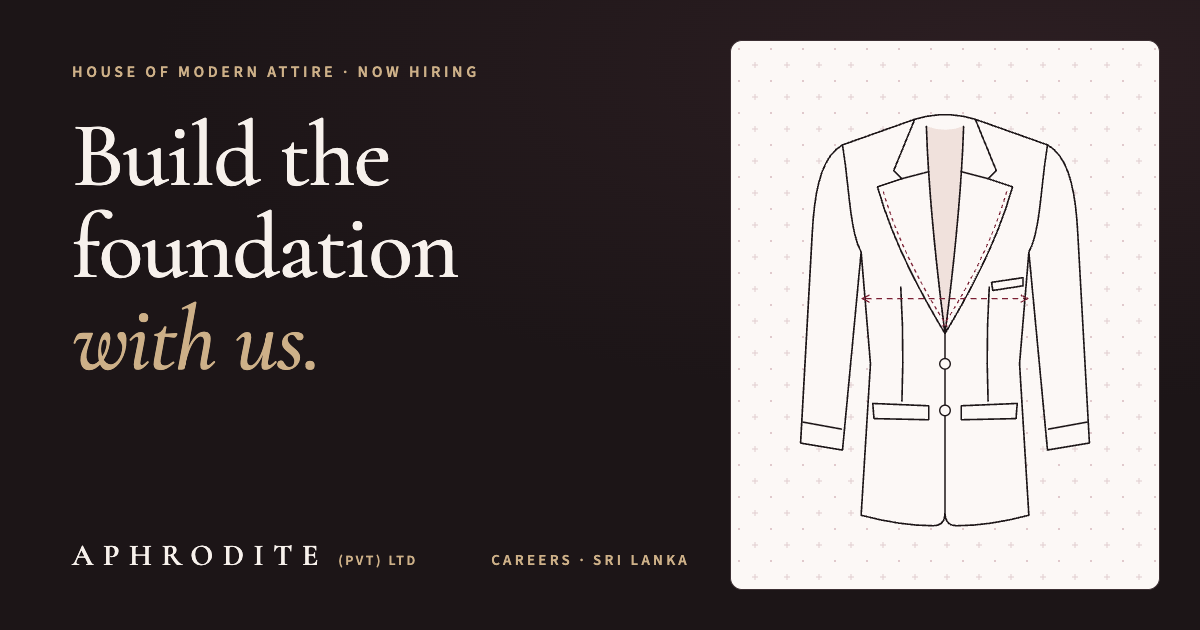
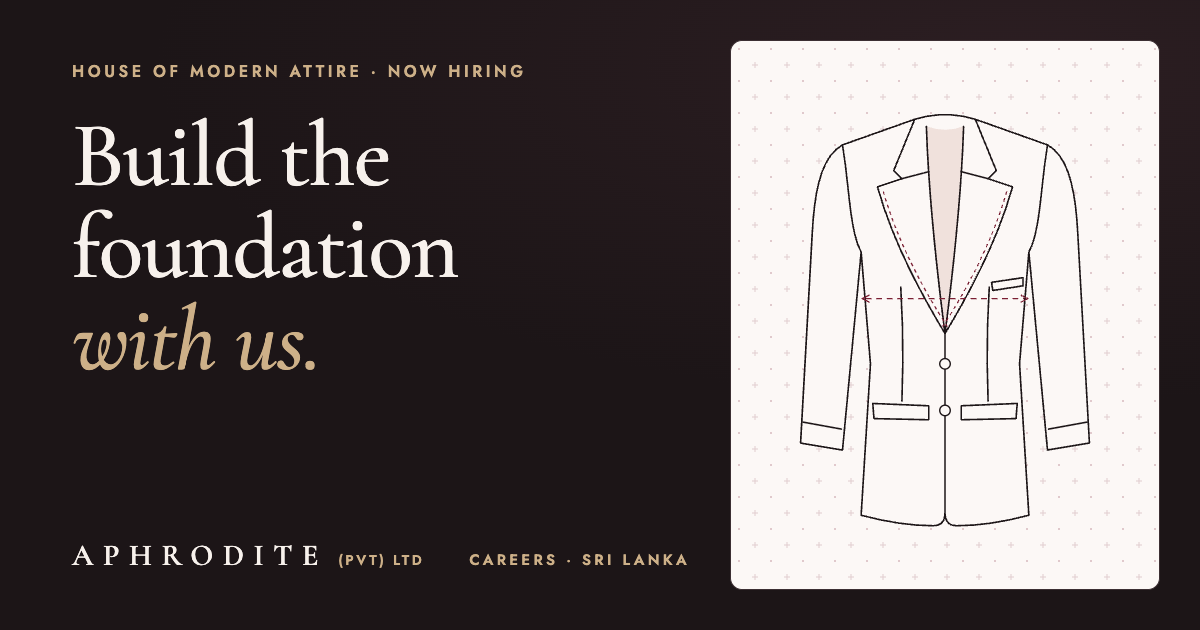
Body font: Jost (geometric, Futura lineage) for a modern luxury feel
Source Sans 3 felt plain. Jost pairs with Cormorant Garamond for a
fashion-editorial look, especially in tracked uppercase labels and
buttons; stays readable at 18px on light and dark. Bold values softened
to 500; link-preview image regenerated.

Changed region(s): [[0.0617, 0.0905, 0.4317, 0.1206], [0.4008, 0.8746, 0.5858, 0.9048], [0.2775, 0.8746, 0.37, 0.9048]]

diff --git a/site/og/og-image.html b/site/og/og-image.html
@@ -14,17 +14,17 @@
   <meta charset="UTF-8">
   <link rel="stylesheet" href="../node_modules/@fontsource-variable/cormorant-garamond/wght.css">
   <link rel="stylesheet" href="../node_modules/@fontsource-variable/cormorant-garamond/wght-italic.css">
-  <link rel="stylesheet" href="../node_modules/@fontsource-variable/source-sans-3/index.css">
+  <link rel="stylesheet" href="../node_modules/@fontsource-variable/jost/index.css">
   <style>
     * { box-sizing: border-box; margin: 0; }
     html, body { width: 1200px; height: 630px; overflow: hidden; }
     body {
       background: radial-gradient(120% 90% at 85% 10%, #2C1E22 0%, #1C1517 60%); color: #F7F1EC;
-      font-family: "Source Sans 3 Variable", sans-serif;
+      font-family: "Jost Variable", sans-serif;
       display: grid; grid-template-columns: 1fr 470px;
     }
     .copy { padding: 64px 40px 56px 72px; display: flex; flex-direction: column; }
-    .eyebrow { font: 600 16px/1 "Source Sans 3 Variable", sans-serif; letter-spacing: .22em; text-transform: uppercase; color: #CDB088; }
+    .eyebrow { font: 600 16px/1 "Jost Variable", sans-serif; letter-spacing: .22em; text-transform: uppercase; color: #CDB088; }
     h1 {
       margin-top: 30px;
       font-family: "Cormorant Garamond Variable", serif; font-weight: 500;
@@ -33,8 +33,8 @@
     h1 em { display: block; font-style: italic; color: #CDB088; }
     .foot { margin-top: auto; display: flex; align-items: baseline; justify-content: space-between; }
     .brand { font-family: "Cormorant Garamond Variable", serif; font-weight: 600; font-size: 30px; letter-spacing: .32em; color: #F7F1EC; }
-    .brand small { font: 600 14px "Source Sans 3 Variable", sans-serif; letter-spacing: .18em; color: #CDB088; margin-left: 10px; }
-    .roles { font: 600 15px "Source Sans 3 Variable", sans-serif; letter-spacing: .22em; text-transform: uppercase; color: #CDB088; }
+    .brand small { font: 600 14px "Jost Variable", sans-serif; letter-spacing: .18em; color: #CDB088; margin-left: 10px; }
+    .roles { font: 600 15px "Jost Variable", sans-serif; letter-spacing: .22em; text-transform: uppercase; color: #CDB088; }
 
     .sheet {
       margin: 40px 40px 40px 0; border: 1px solid #3C2F33; border-radius: 12px;

diff --git a/site/src/styles.css b/site/src/styles.css
@@ -17,9 +17,9 @@
   --champagne: #CDB088;   /* fine details on dark */
   --bronze: #8A6A42;      /* fine rules on light */
 
-  /* Elegant serif for large headings only (where it stays readable); humanist sans for all reading text */
+  /* Elegant serif for large headings only; a modern geometric sans (Futura lineage) for all reading text */
   --f-display: "Cormorant Garamond Variable", "Cormorant Garamond", Garamond, Georgia, serif;
-  --f-body: "Source Sans 3 Variable", system-ui, -apple-system, "Segoe UI", sans-serif;
+  --f-body: "Jost Variable", "Futura", "Century Gothic", system-ui, -apple-system, "Segoe UI", sans-serif;
 
   --wrap: 1200px;
   --gutter: clamp(16px, 4vw, 40px);
@@ -322,7 +322,7 @@ button { font: inherit; }
 .division > p + dl { margin-top: 22px; }
 .division dl div { display: flex; justify-content: space-between; gap: 16px; font-size: 1rem; }
 .division dt { color: var(--muted); flex: none; }
-.division dd { margin: 0; font-weight: 600; color: var(--ink); text-align: right; }
+.division dd { margin: 0; font-weight: 500; color: var(--ink); text-align: right; }
 @media (max-width: 960px) { .divisions { grid-template-columns: 1fr; } }
 
 /* ------------------------------------------------------------
@@ -389,7 +389,7 @@ button { font: inherit; }
 .role-facts { margin: 20px 0 0; display: grid; gap: 8px; font-size: .98rem; }
 .role-facts div { display: grid; grid-template-columns: 96px minmax(0, 1fr); gap: 12px; }
 .role-facts dt { color: var(--muted); }
-.role-facts dd { margin: 0; font-weight: 600; color: var(--ink); }
+.role-facts dd { margin: 0; font-weight: 500; color: var(--ink); }
 .role-card-actions { margin-top: auto; padding-top: 24px; display: flex; flex-wrap: wrap; align-items: center; gap: 12px 20px; }
 .role-card .role-facts { margin-bottom: 4px; }
 

diff --git a/site/src/main.tsx b/site/src/main.tsx
@@ -2,7 +2,7 @@ import { StrictMode } from 'react';
 import { createRoot, hydrateRoot } from 'react-dom/client';
 import '@fontsource-variable/cormorant-garamond/wght.css';
 import '@fontsource-variable/cormorant-garamond/wght-italic.css';
-import '@fontsource-variable/source-sans-3/index.css';
+import '@fontsource-variable/jost/index.css';
 import './styles.css';
 import App from './App';
 

diff --git a/HANDOVER.md b/HANDOVER.md
@@ -35,7 +35,7 @@ Current roles:
 | Headcount | **Never state how many people we're hiring.** The owner found "hiring five people" unprofessional |
 | Content | **Don't invent.** Use only the original preview's content. Anything new must be confirmed by the owner first |
 | Section order | **Follow the original preview:** hero → the company → divisions → 3D studio → careers → apply → footer |
-| Fonts and feel | **Luxurious and readable, balanced.** Bodoni everywhere was hard to read, and plain Source Serif everywhere lost the luxury feel. Now: an elegant serif (Cormorant Garamond) for large headings only, with italic accents; a plain sans (Source Sans 3) for all reading text |
+| Fonts and feel | **Luxurious and readable, balanced.** Bodoni everywhere was hard to read, and plain Source Serif everywhere lost the luxury feel. Now: an elegant serif (Cormorant Garamond) for large headings only, with italic accents; a modern geometric sans (Jost, in the Futura lineage) for all reading text |
 | Role details | **Not** a plain "+" expander. Each role has a card with a "View role details" button that opens a side panel |
 | 3D section | Must play a **video showing virtual 3D fitting** |
 | Language | English only |
@@ -54,7 +54,7 @@ Current roles:
   - dark hero and header with a champagne accent
   - Cormorant Garamond headings with italic accent phrases
   - tracked uppercase labels, buttons and navigation
-  - Source Sans 3 body text at 18px, AA contrast
+  - Jost body text at 18px, AA contrast
   - the jacket drawing in cream lines on a dark pattern sheet
 - [x] **Hero wow moment** (`SilkCanvas.tsx`):
   - fine stone and gold threads flowing like draped silk over a near-black field, drawn with a WebGL shader; they ripple around the cursor
@@ -105,7 +105,7 @@ Current roles:
 ### Verified (`pnpm qa`, Chrome, local production build): all passing
 
 - **Structure:** sections in the original preview's order. The page never mentions a headcount.
-- **Fonts:** Cormorant Garamond (headings) and Source Sans 3 (text) load; body text is 18px.
+- **Fonts:** Cormorant Garamond (headings) and Jost (text) load; body text is 18px.
 - **Hydration:** React hydrates with no errors. The only console message is the intended "set `CONFIG.careersEmail`" warning.
 - **Filters:** "Atelier & QC" shows only the two craft roles.
 - **Role panel:**
@@ -463,7 +463,7 @@ These were written by the previous build and are no longer on the site:
   - **Light:** the company, divisions and careers sections (shell and paper, with a garnet accent).
 - **Type:** keep the balance. The owner rejected both extremes.
   - **Cormorant Garamond** (weight 500–600) only for large headings: page and section titles, card titles, key figures, stage numbers, the wordmark. One phrase per title is set in *italic* in the accent colour.
-  - **Source Sans 3** for all reading text: body at 18px, form fields, details.
+  - **Jost** for all reading text: body at 18px, form fields, details.
   - **Labels** (eyebrows, buttons, navigation, filters, statuses): sans, uppercase, letter-spaced (0.12–0.22em), 12.5–14.5px, weight 600–700. Eyebrows have a short rule before them.
   - Don't set Cormorant below about 1.6rem, and don't use it for body text.
   - Both fonts are self-hosted through `@fontsource`.
@@ -553,10 +553,11 @@ These were written by the previous build and are no longer on the site:
 | 2026-11-12 | First design (Bodoni Moda, spec-sheet hero with the roles as points A–E) built as a prototype, then in React + TypeScript + pnpm with pre-rendering |
 | 2026-11-12 | FormSubmit chosen for form-to-email (free, CV attachments via a normal form post) |
 | 2026-11-12 | QA rounds 1–2: layout fixes, link previews, `pnpm qa`, keyboard and accessibility fixes |
-| 2026-11-12 | **Owner review round 1:**<br>• fonts hard to read → Source Serif 4 + Source Sans 3<br>• "hiring five people" unprofessional → no headcount anywhere<br>• "+" expanders → role cards with a "View role details" side panel<br>• "don't invent content" → rebuilt from the original preview's text, with the invented items listed in §8<br>• 3D section must play a virtual-fitting video → video player added, film to be supplied<br>• follow the original preview's section order → done<br>• spec-sheet hero, "Why join", "How we hire" and FAQ removed |
+| 2026-11-12 | **Owner review round 1:**<br>• fonts hard to read → Source Serif 4 + Jost<br>• "hiring five people" unprofessional → no headcount anywhere<br>• "+" expanders → role cards with a "View role details" side panel<br>• "don't invent content" → rebuilt from the original preview's text, with the invented items listed in §8<br>• 3D section must play a virtual-fitting video → video player added, film to be supplied<br>• follow the original preview's section order → done<br>• spec-sheet hero, "Why join", "How we hire" and FAQ removed |
+| 2026-11-12 | **Owner review round 6:** the body font (Source Sans 3) felt plain → **Jost**, a geometric sans in the Futura lineage that pairs with Cormorant for a fashion-editorial look; bold values softened to weight 500; link-preview image updated |
 | 2026-11-12 | **Owner review round 5:** the full-screen garnet silk felt too heavy ("a lot filling") → replaced with fine silk threads on near-black (stone threads, with every fourth in gold; light catches them; mostly empty space); headline side kept clean |
 | 2026-11-12 | **Preview hosted on GitHub Pages** (https://jali-rk.github.io/neo_hire/) via Actions, with noindex while placeholders remain |
 | 2026-11-12 | **Owner review round 4:** "film must start automatically" → muted forced, autoplay fallback on first interaction with a large play button. "More scroll animation, luxury feel" → masked title sweeps, focus-pull reveals, film curtain, drawing hairlines, scroll-linked drift, footer wordmark. The "static" look and click-to-play were caused by macOS Low Power Mode |
 | 2026-11-12 | **Fit-on film added:** an AI-generated 8 s clip (360p, 9:16) whose first and last frames differ, so it's made into a boomerang loop. The player keeps the film's own shape. Next: a 1080p regeneration with the fit-on loop prompt in §6 (the dress-always-on loop prompt was rejected: no fit-on effect) |
 | 2026-11-12 | **Owner review round 3:** "more interactive, a wow animation in the first section, more luxury and modern" and "the preview's hero content is better" → live WebGL silk hero; the preview's hero wording restored; see-through header; scroll reveals, craft band, counting figures, studio stage highlight, card spotlight; web-optimised video player (lazy, plays only on screen) and the video brief in §6 |
-| 2026-11-12 | **Owner review round 2:** "the plain text lost the luxury feeling; make it balanced" → Cormorant Garamond for large headings with italic accents; dark hero and header; champagne accent; tracked uppercase labels and buttons; body text kept in Source Sans 3 at 18px for readability; section titles use the original preview's phrasing |
+| 2026-11-12 | **Owner review round 2:** "the plain text lost the luxury feeling; make it balanced" → Cormorant Garamond for large headings with italic accents; dark hero and header; champagne accent; tracked uppercase labels and buttons; body text kept in Jost at 18px for readability; section titles use the original preview's phrasing |
